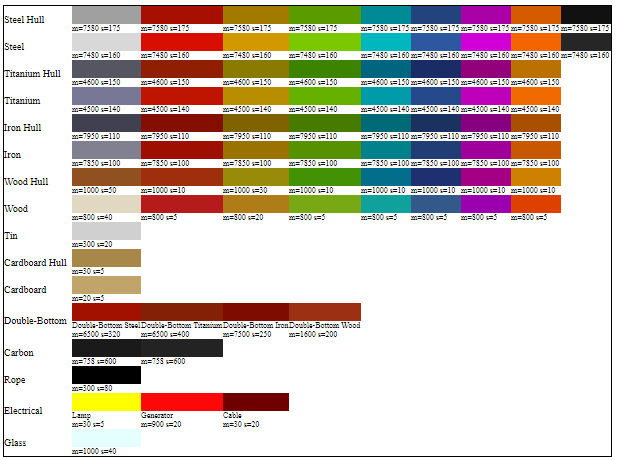
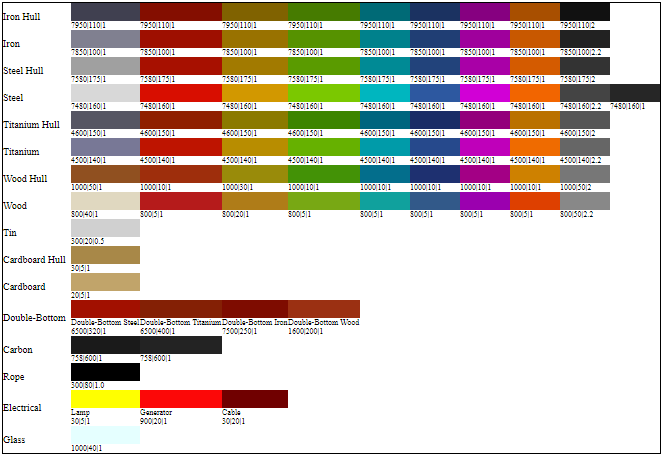
Improved materials system

diff --git a/Scripts/generate_materials_template.py b/Scripts/generate_materials_template.py
@@ -97,7 +97,7 @@ def main():
         html += "<tr>"
         for cv in col_values:
             html += "<td style='font-size:8px;'>"
-            html += "m=" + str(cv[2]["mass"]) + " s=" + str(cv[2]["strength"])
+            html += str(cv[2]["mass"]) + "|" + str(cv[2]["strength"]) + "|" + str(cv[2]["stiffness"])
             html += "</td>"
         html += "</tr>"
         

diff --git a/GameLib/GameParameters.cpp b/GameLib/GameParameters.cpp
@@ -17,7 +17,7 @@ GameParameters::GameParameters()
     , WaterPressureAdjustment(1.60f)
     , WaveHeight(2.4f)
     , SeaDepth(140.0f)
-    , DestroyRadius(0.5f)
+    , DestroyRadius(0.6f)
     , BombBlastRadius(2.5f)
     , BombMass(50000.0f)
     , TimerBombInterval(10)

diff --git a/README.md b/README.md
@@ -1,7 +1,5 @@
-
-
 # Floating Sandbox
-Two-dimensional mass-spring network in C++, simulating bodies floating on water and sinking.
+Two-dimensional mass-spring network in C++, simulating physical bodies floating in water and sinking.
 
 ---
 This game is a C++ implementation of a particular class of particle systems, namely a *mass-spring-damper* network. With a mass-spring-damper network it is possible to simulate a rigid body by decomposing it into a number of infinitesimal particles ("points"), which are linked to each other via spring-damper pairs. Springs help maintain the rigidity of the body, while dampers are mostly to maintain the numerical stability of the system.
